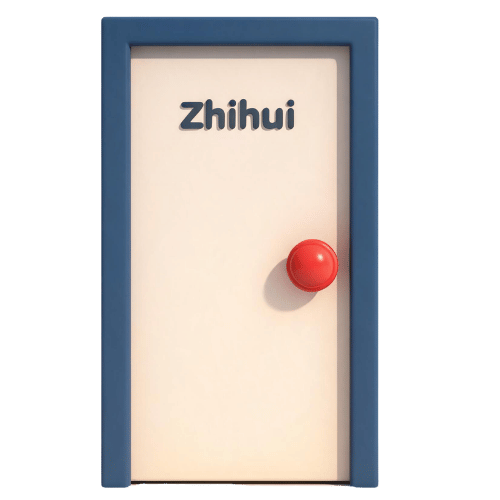
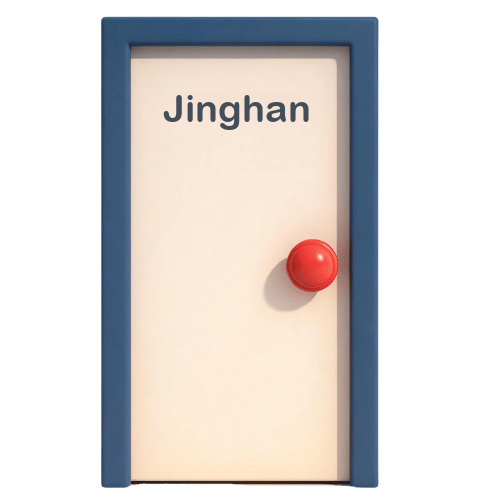
Door name to Jinghan; vibe work now Job Hunter Pro with live link

Changed region(s): [[0.33, 0.18, 0.63, 0.27]]

diff --git a/src/data.ts b/src/data.ts
@@ -264,14 +264,14 @@ export const SKILL_WALL: SkillWallModule[] = [
 // ---------- 左墙：Vibe Coding 作品展示 ----------
 export const VIBE_WORK = {
   title: l("My Vibe Coding Work", "我的 Vibe Coding 作品"),
-  name: l("This 3D Office — dongjinghan.cn", "3D 个人办公室 · dongjinghan.cn"),
+  name: l("Job Hunter Pro · 职途 AI", "职途 AI · 智能求职助手"),
   desc: l(
-    "Designed & built end-to-end with AI coding tools — Three.js scene, React UI and all content iterated in conversation.",
-    "用 AI 编程工具从 0 到 1 搭建——Three.js 场景、React 界面与全部内容都在对话中迭代完成。"
+    "An all-in-one job-hunting workspace built with AI coding tools — aggregating openings, tracking applications, JD matching and resume polishing.",
+    "用 AI 编程工具打造的一站式求职工作台——聚合职位、追踪投递、JD 匹配与简历优化。"
   ),
-  tools: ["WorkBuddy", "Claude Code", "Three.js", "React"],
+  tools: ["WorkBuddy", "Claude Code", "JavaScript", "Vercel"],
   cover: "/work/vibe1.jpg",
-  link: "https://github.com/djh20010513/dongjinghan-personal-site",
+  link: "https://job-hunter-pro-1.vercel.app/",
 };
 
 // ---------- 论文（黑板 + 投影仪） ----------
